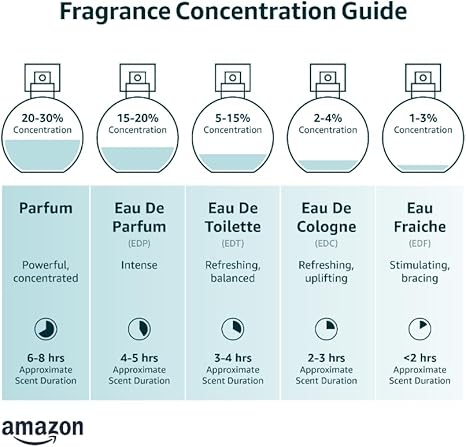
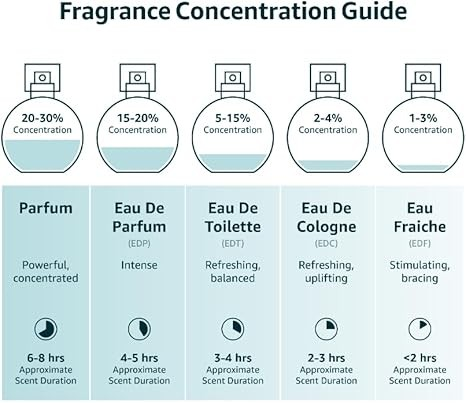
update

Changed region(s): [[0.0, 0.1191, 1.0, 1.0], [0.1202, 0.0, 0.8712, 0.0596], [0.2403, 0.6551, 0.3305, 0.6849]]

diff --git a/index.html b/index.html
@@ -129,7 +129,7 @@ style="position: absolute; overflow: hidden;">
 
 
 <div class="product-card featured-card"
-  data-images="images/sy7.jpg,images/sy7-2.jpg,images/sy7-3.jpg"
+  data-images="images/sy7.jpg,images/sy7-3.jpg,images/sy7-4.webp,images/sy7-2.jpg"
   data-product-name="Silver Mountain Water"
   data-brand="CREED"
   data-audience="للجنسين"
@@ -325,7 +325,7 @@ data-warning="أنسب وقت للاستخدام: مساءً، وخصوصًا ف
 
 
 <div class="product-card featured-card"
-  data-images="images/sy3.jpg,images/sy3-2.jpg,images/sy3-3.jpg,images/sy3-4.jpg"
+  data-images="images/sy3.jpg,images/sy3-3.jpg,images/sy3-2.jpg,images/sy3-4.jpg"
   data-product-name="40 Knots"
 data-brand="Xerjoff"
 data-audience="للجنسين"
